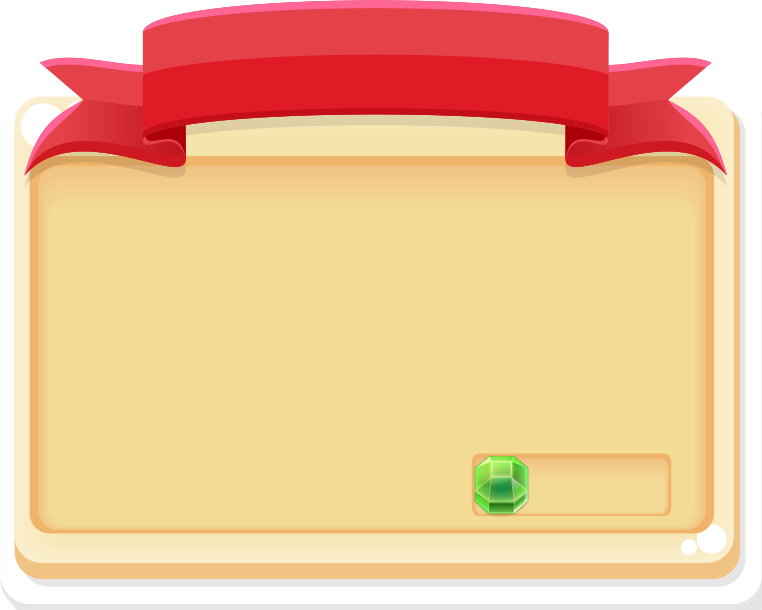
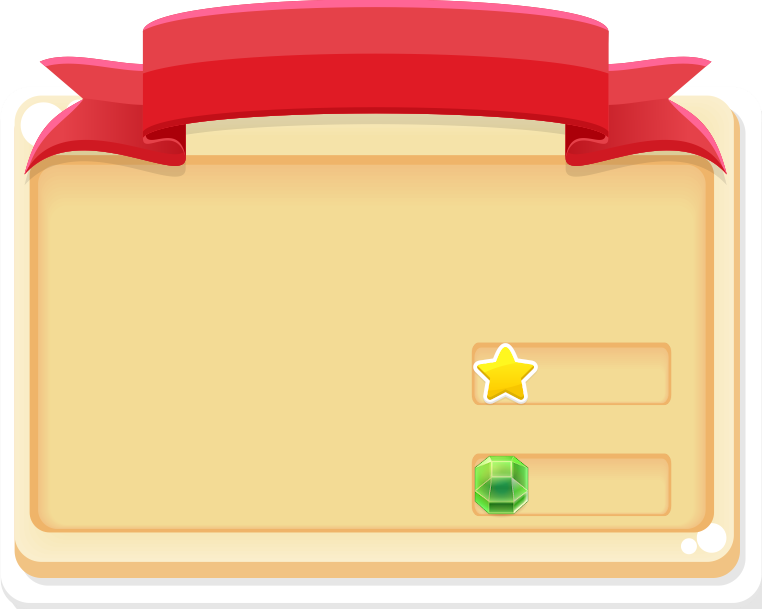
update level complete dialog

diff --git a/src/scripts/ui/levelCompleteDialog.ts b/src/scripts/ui/levelCompleteDialog.ts
@@ -20,6 +20,8 @@ export class LevelCompleteDialog extends Phaser.GameObjects.Sprite {
   private background: Phaser.GameObjects.Rectangle
   private textGems: Phaser.GameObjects.Text
   private listOftweens: Array<Phaser.Tweens.Tween> = []
+  private currentLevelStorage: LevelFileStorageConfig | undefined
+  private _forceCompleteTweens: boolean
 
   private readonly FIRST_COLUMN_X: number
   private readonly SECOND_COLUMN_X: number
@@ -28,7 +30,6 @@ export class LevelCompleteDialog extends Phaser.GameObjects.Sprite {
   private readonly DELAY: number = 250
   private readonly TOTAL_DELAY: number
   private readonly BEST_TIME_IN_SECS: number
-  currentLevelStorage: LevelFileStorageConfig | undefined
 
   constructor(
     scene: Phaser.Scene,
@@ -43,11 +44,7 @@ export class LevelCompleteDialog extends Phaser.GameObjects.Sprite {
   ) {
     super(scene, x, y, 'level-complete-dialog')
     scene.add.existing(this)
-    this.setInteractive().on('pointerdown', (pointer, localX, localY, event) => {
-      this.listOftweens.forEach((tween) => {
-        tween.isPlaying() && tween.complete()
-      })
-    })
+    this.setInteractive().on('pointerdown', () => (this.forceCompleteTweens = true))
 
     // set default positions
     this.FIRST_COLUMN_X = this.x - this.width * 0.5 + 80
@@ -69,12 +66,12 @@ export class LevelCompleteDialog extends Phaser.GameObjects.Sprite {
       })
       .setStroke(COLORS.DARK_RED, 10)
 
-    this.starsImage = this.scene.add.image(this.x, this.y - 80, 'stars-zero').setScale(0.7, 0.7)
+    this.starsImage = this.scene.add.image(this.x, this.y - 100, 'stars-zero').setScale(0.5, 0.5)
 
     const gemsTitle = this.scene.add
-      .text(this.x + this.width * 0.5 - 290, this.y + this.height * 0.5 - 210, 'gems', {
+      .text(this.x + this.width * 0.5 - 290, this.y + 105, 'gems', {
         fontFamily: FONTS.ALLOY_INK,
-        fontSize: '42px',
+        fontSize: '32px',
       })
       .setStroke(COLORS.DARK_YELLOW, 10)
 
@@ -90,23 +87,7 @@ export class LevelCompleteDialog extends Phaser.GameObjects.Sprite {
 
     this.addButtons()
 
-    //TODO: move to a method - calculate record stars
-    const recordStarTitle = this.scene.add
-      .text(this.x + this.width * 0.5 - 290, this.y + this.height * 0.5 - 295, 'last record', {
-        fontFamily: FONTS.ALLOY_INK,
-        fontSize: '26px',
-      })
-      .setStroke(COLORS.DARK_YELLOW, 10)
-
     this.currentLevelStorage = getLevelStorage(this.level.level, this.gameworld.key)
-    const starImageName = getStarImageName(this.currentLevelStorage?.stars)
-    const recordStarImage = scene.add
-      .image(
-        recordStarTitle.x + recordStarTitle.width * 0.5,
-        recordStarTitle.y + recordStarTitle.height + 20,
-        starImageName
-      )
-      .setScale(0.2, 0.2)
 
     setLevelStorage({ level: this.level.level, stars: this.stars, key: this.gameworld.key })
 
@@ -116,7 +97,22 @@ export class LevelCompleteDialog extends Phaser.GameObjects.Sprite {
       await this.addStarsBasedOnTimer()
       await this.showGems()
       this.isRoundPassed(this.level.rounds) && playSound(this.scene, this.nextLevelAudio)
+      if (this.currentLevelStorage?.stars !== 3 && this.stars !== 3) this.showTryAgainMessage()
     })
+
+    const recordStarTitle = this.scene.add
+      .text(gemsTitle.x, this.y - 5, 'record', {
+        fontFamily: FONTS.ALLOY_INK,
+        fontSize: '32px',
+      })
+      .setStroke(COLORS.DARK_YELLOW, 10)
+
+    const recordStarText = this.scene.add
+      .text(this.textGems.x - 15, recordStarTitle.y + 45, `${this.currentLevelStorage?.stars || 0} / 3`, {
+        fontFamily: FONTS.ALLOY_INK,
+        fontSize: '48px',
+      })
+      .setStroke(COLORS.DARK_YELLOW, 10)
 
     this.group
       .add(this)
@@ -125,7 +121,7 @@ export class LevelCompleteDialog extends Phaser.GameObjects.Sprite {
       .add(this.textGems)
       .add(this.starsImage)
       .add(recordStarTitle)
-      .add(recordStarImage)
+      .add(recordStarText)
       .setDepth(20)
   }
 
@@ -174,9 +170,10 @@ export class LevelCompleteDialog extends Phaser.GameObjects.Sprite {
   }
 
   addRoundText = async (): Promise<void> => {
-    return new Promise((resolve) => {
-      for (let index = 0; index < this.level.rounds; index++) {
-        this.scene.time.delayedCall(this.DELAY * index, () => {
+    const updateRoundText = async (index) => {
+      return new Promise((resolve) => {
+        const delay = this.forceCompleteTweens ? 0 : this.DELAY
+        this.scene.time.delayedCall(delay, () => {
           const x = this.FIRST_COLUMN_X
           const y = this.INITIAL_Y + index * this.OFFSET_Y
           const text = this.scene.add
@@ -191,13 +188,14 @@ export class LevelCompleteDialog extends Phaser.GameObjects.Sprite {
             .setScale(0.5, 0.5)
             .setOrigin(0, 0)
           this.group.add(text).add(imgChecker).setDepth(20)
+          resolve()
         })
-      }
-
-      this.scene.time.delayedCall(this.TOTAL_DELAY, () => {
-        resolve()
       })
-    })
+    }
+
+    for (let index = 0; index < this.level.rounds; index++) {
+      await updateRoundText(index)
+    }
   }
 
   addTimerByRound = async (): Promise<void> => {
@@ -215,7 +213,7 @@ export class LevelCompleteDialog extends Phaser.GameObjects.Sprite {
           const tween = this.scene.tweens.addCounter({
             from: 0,
             to: timerInSeconds,
-            duration: 500,
+            duration: this.forceCompleteTweens ? 0 : 500,
             onUpdate: (tween: Phaser.Tweens.Tween, { value }: any) => {
               timerText.text = value.toFixed(2) + ' sec'
               if (this.isBeatTheBestTime(value)) {
@@ -246,13 +244,24 @@ export class LevelCompleteDialog extends Phaser.GameObjects.Sprite {
     }
   }
 
-  addStarsBasedOnRounds = async (): Promise<void> => {
-    console.log('stars', this.stars)
-    const starImageName = getStarImageName(this.stars)
-    this.starsImage.setTexture(starImageName)
+  private updateStarsImage = async (numberOfStars: number, delay: number) => {
+    return new Promise((resolve) => {
+      this.scene.time.delayedCall(delay, () => {
+        const starImageName = getStarImageName(numberOfStars)
+        this.starsImage.setTexture(starImageName)
 
-    // TODO: add animation
-    return Promise.resolve()
+        resolve()
+      })
+    })
+  }
+
+  addStarsBasedOnRounds = async (): Promise<void> => {
+    const maxStars = Math.min(2, this.stars)
+    // add star by star
+    for (let index = 1; index <= maxStars; index++) {
+      const delay = this.forceCompleteTweens ? 0 : this.DELAY * index
+      await this.updateStarsImage(index, delay)
+    }
   }
 
   addStarsBasedOnTimer = async (): Promise<void> => {
@@ -268,8 +277,7 @@ export class LevelCompleteDialog extends Phaser.GameObjects.Sprite {
   showGems = async (): Promise<void> => {
     return new Promise((resolve, reject) => {
       // TODO: check if it is the first time
-      const firstTime = true
-      let duration = 1000
+      const duration = this.forceCompleteTweens ? 0 : 1000
 
       const tween = this.scene.tweens.addCounter({
         from: 0,
@@ -285,6 +293,34 @@ export class LevelCompleteDialog extends Phaser.GameObjects.Sprite {
       })
       this.listOftweens.push(tween)
     })
+  }
+
+  showTryAgainMessage = (): void => {
+    const tryAgainTitle = this.scene.add
+      .text(
+        this.starsImage.x,
+        this.starsImage.y + this.starsImage.displayHeight - 25,
+        'try again to get all stars and collect more gems',
+        {
+          fontFamily: FONTS.ALLOY_INK,
+          fontSize: '18px',
+        }
+      )
+      .setStroke(COLORS.DARK_YELLOW, 10)
+      .setOrigin(0.5, 1)
+    this.group.add(tryAgainTitle).setDepth(20)
+
+    const tween = this.scene.tweens.add({
+      targets: tryAgainTitle,
+      scale: 1.1,
+      duration: this.forceCompleteTweens ? 0 : 500,
+      repeat: -1,
+      yoyo: true,
+      onComplete: () => {
+        tryAgainTitle.setScale(1, 1)
+      },
+    })
+    this.listOftweens.push(tween)
   }
 
   createBackground = () => {
@@ -308,6 +344,17 @@ export class LevelCompleteDialog extends Phaser.GameObjects.Sprite {
       value++
     }
     return value
+  }
+
+  private get forceCompleteTweens(): boolean {
+    return this._forceCompleteTweens
+  }
+
+  private set forceCompleteTweens(v: boolean) {
+    this.listOftweens.forEach((tween) => {
+      tween.isPlaying() && tween.complete()
+    })
+    this._forceCompleteTweens = v
   }
 
   private get gems(): number {
